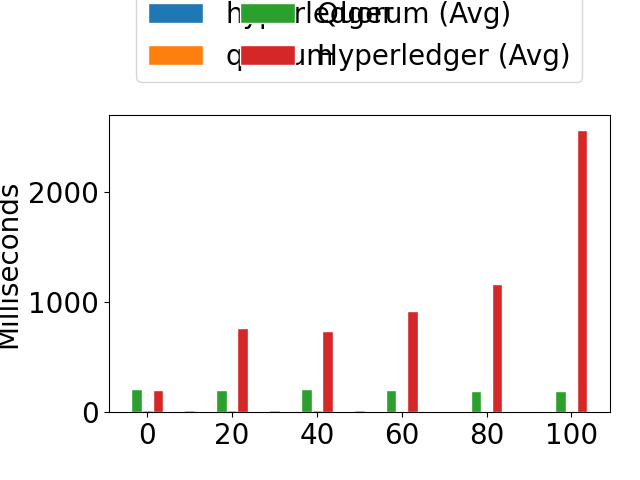
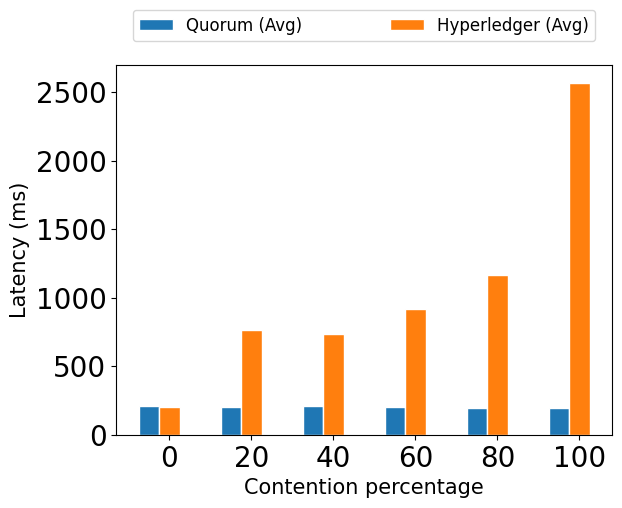
fix colliding labels for contention plots

Changed region(s): [[0.0, 0.0, 1.0, 1.0], [0.0611, 0.1562, 0.1833, 0.2188], [0.1833, 0.2188, 0.2138, 0.25]]

diff --git a/misc-scripts/results_viewers/contention_results_plotters.py b/misc-scripts/results_viewers/contention_results_plotters.py
@@ -80,13 +80,15 @@ def plot_average_throughput_bars():
 
     plt.xticks([r + BARWIDTH for r in range(len(hyperledgerthroughputs))],
                [ex for ex in experiments])
-    plt.ylabel("Transactions per second")
+    plt.ylabel("Throughput (Tx/s)")
+    plt.xlabel("Contention percentage")
 
     plt.legend(bbox_to_anchor=(0, 1.02, 1, 0.2), loc="lower left",
-               mode="expand", borderaxespad=1, ncol=3)
-    plt.tight_layout()
+               mode="expand", borderaxespad=1, ncol=3, fontsize = 15)
 
-    plt.savefig('figures/contention/contention-comparison-average-throughput.png', dpi = 100)
+    plt.savefig('figures/contention/contention-comparison-average-throughput.png', dpi = 100, bbox_inches='tight')
+
+    plt.close()
 
 
 def plot_max_throughput_bars():
@@ -130,7 +132,7 @@ def plot_max_throughput_bars():
 
 
 def plot_latency_bars():
-    BARWIDTH = 0.25
+    BARWIDTH = 0.5
 
     quorum_x = [x for x in range(0, len(experiments) * 2, 2)]
     hl_x = [x+0.5 for x in range(0, len(experiments) * 2, 2)]
@@ -158,22 +160,20 @@ def plot_latency_bars():
         quorum_avg.append(qavg)
 
 
-
-
-
     plt.bar(quorum_x, quorum_avg, width=BARWIDTH,
             edgecolor='white', label='Quorum (Avg)')
     plt.bar(hl_x, hl_avg, width=BARWIDTH,
             edgecolor='white', label='Hyperledger (Avg)')
 
     plt.xticks([r + BARWIDTH for r in quorum_x], [ex for ex in experiments])
-    plt.ylabel("Milliseconds")
+    plt.xlabel("Contention percentage", fontsize = 15)
+    plt.ylabel("Latency (ms)", fontsize = 15)
     #plt.yscale('log')
     plt.legend(bbox_to_anchor=(0, 1.02, 1, 0.2), loc="lower left",
-               mode="expand", borderaxespad=1, ncol=2)
+               mode="expand", borderaxespad=1, ncol=2, fontsize = 12)
 
 
-    plt.savefig('figures/contention/contention-comparison-average-latency.png', dpi=100)
+    plt.savefig('figures/contention/contention-comparison-average-latency.png', dpi=100, bbox_inches='tight')
     plt.close()
 
 
